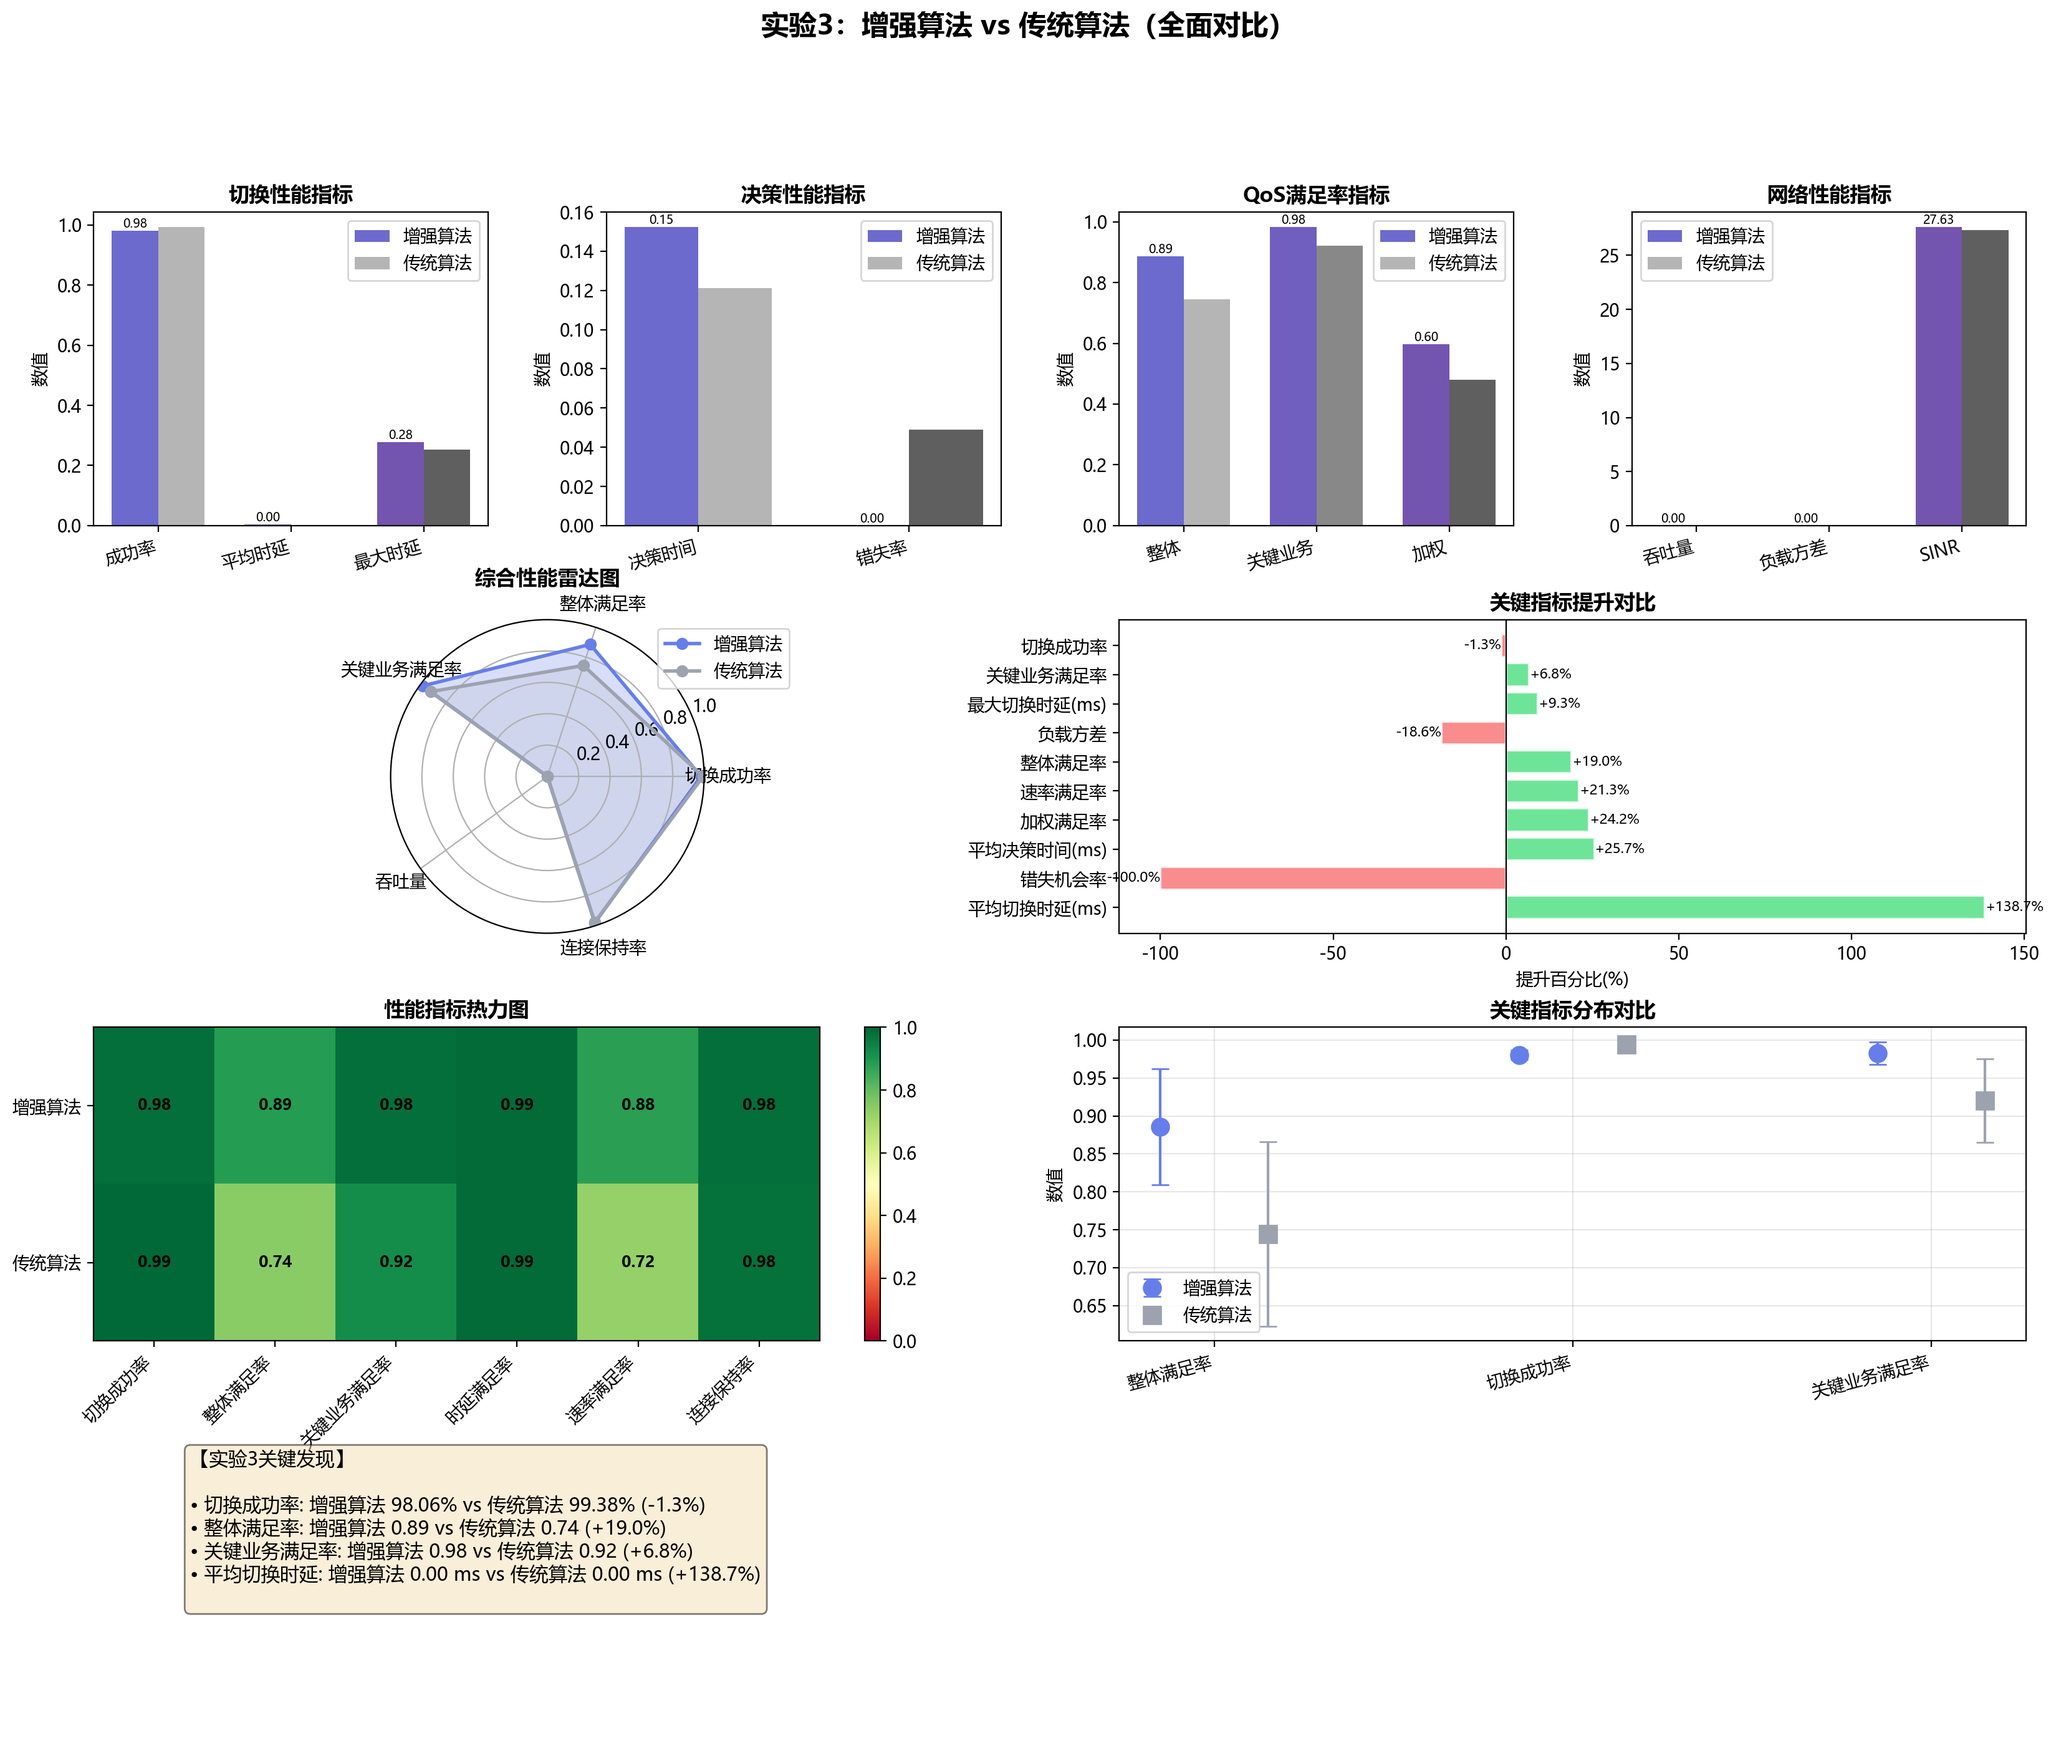
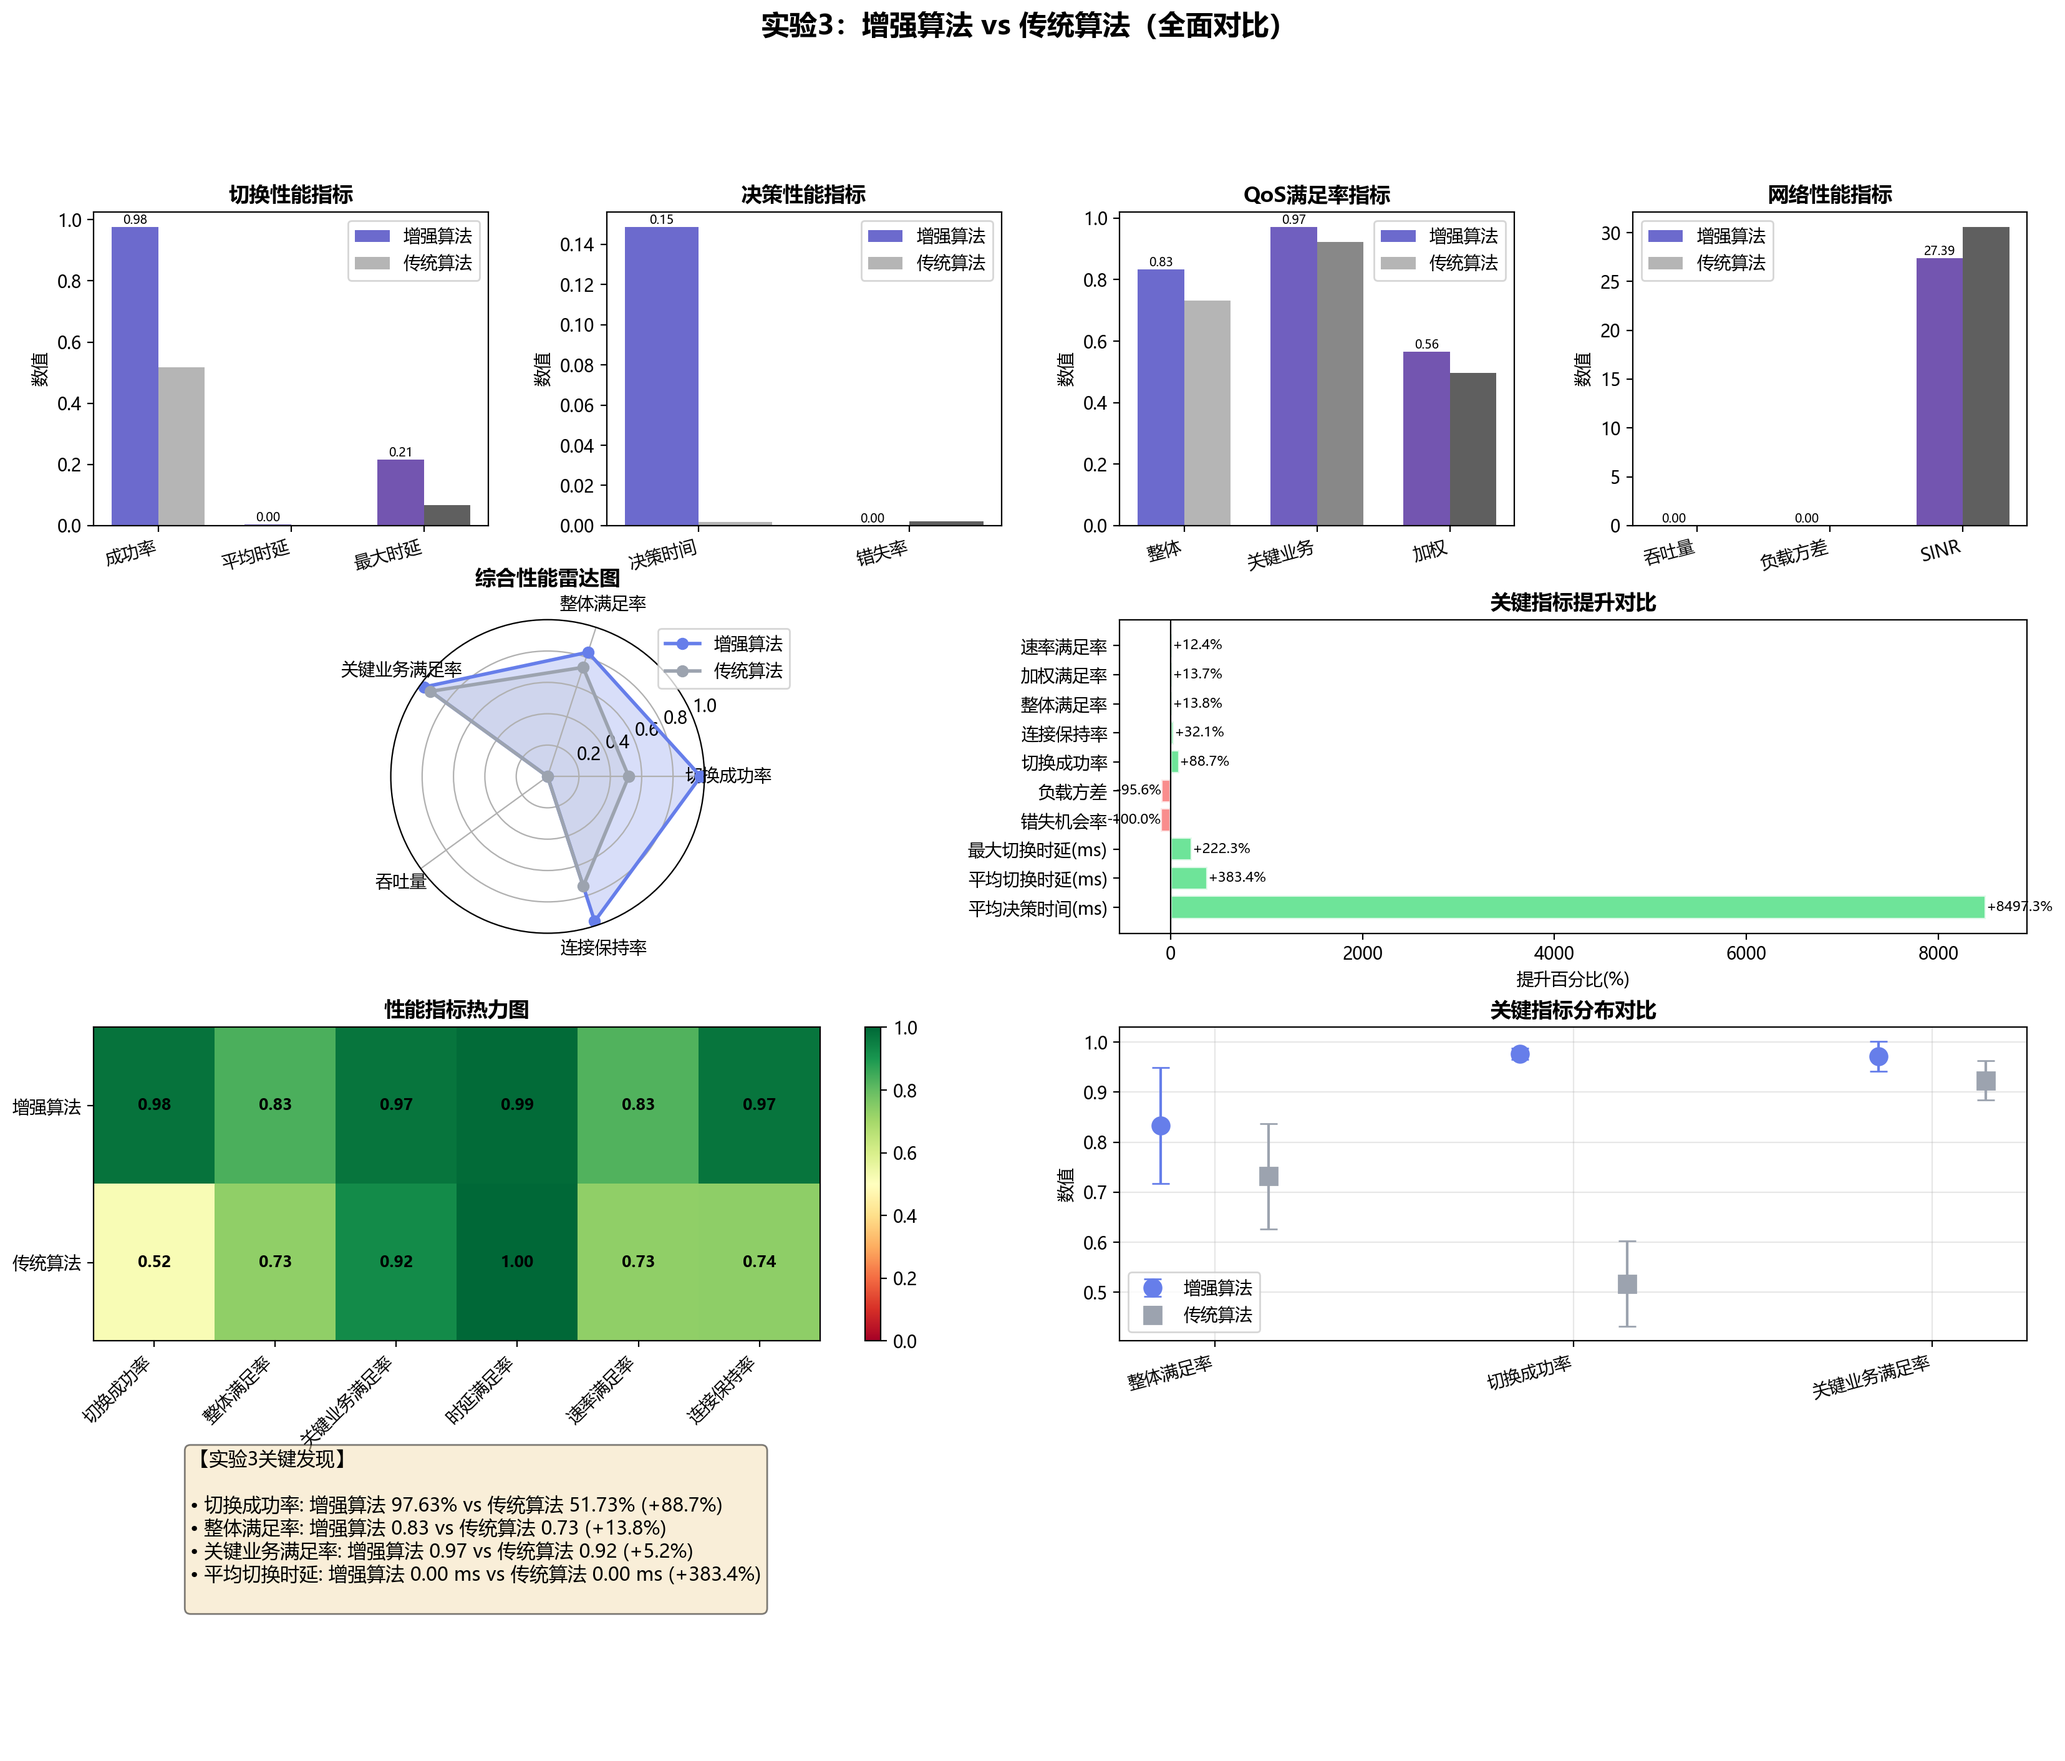
基线采用3GPP标准，核心指标基本达标

diff --git a/uav_system/algorithms.py b/uav_system/algorithms.py
@@ -5,88 +5,96 @@ from .business import BusinessType
 from .environment import NetworkEnvironmentWithRecognition
 
 class IntegratedHandoverAlgorithm:
+    """
+    传统切换算法（3GPP LTE/5G 标准基线）
+    
+    核心特征（与真实3GPP协议一致）：
+    - A3事件触发：仅当邻区SINR比服务小区高Hys+Ofn时才触发切换
+    - 纯SINR目标选择：选择SINR最高的基站，不考虑负载、业务类型
+    - 单次分配尝试：不降级、不抢占，资源不足即切换失败
+    - 无回滚机制：先断后连(make-before-break不可用)，失败则断连
+    - 无负载均衡：无全局均衡调度
+    """
     def __init__(self, env: NetworkEnvironmentWithRecognition):
         self.env = env
-        self.w_sinr = 0.4
-        self.w_load = 0.3
-        self.w_rate = 0.3
-        self.handover_threshold = 0.005
-        self.downgrade_ratios = [1.0, 0.8, 0.6, 0.4, 0.2]
+        # 3GPP A3事件参数
+        self.hysteresis = 2.0      # Hys: 迟滞参数(dB)，防止乒乓切换
+        self.offset = 0.0           # Ofn: 频率偏移(dB)
+        # 紧急切换阈值（SINR极低时强制切换）
+        self.emergency_sinr_threshold = -5
+        self.emergency_satisfaction_threshold = 0.7
+        # 统计指标
         self.handover_attempts = 0
         self.handover_successes = 0
         self.decision_calls = 0
         self.missed_opportunity = 0
-        self.emergency_sinr_threshold = -5
-        self.emergency_satisfaction_threshold = 0.7
-        self.sat_control = []
-        self.sat_video = []
-        self.sat_env = []
         self.switching_latency_history = []
         self.decision_time_history = []
         self.failure_reasons = defaultdict(int)
         self.reconnect_attempts = 0
         self.reconnect_successes = 0
 
-    def calculate_utility(self, uav, bs_id: int, downgrade_ratio: float = 1.0) -> float:
-        sinr = self.env.sinr_matrix[uav.uav_id, bs_id]
-        sinr_norm = np.clip((sinr + 10) / 40, 0, 1)
-        bs = self.env.base_stations[bs_id]
-        load_ratio = bs.load_ratio
-        required = uav.required_rate * downgrade_ratio
-        available = bs.available_capacity
-        rate_match = min(available / required, 1.0) if required > 0 else 0
-        utility = (self.w_sinr * sinr_norm +
-                   self.w_load * (1 - load_ratio) +
-                   self.w_rate * rate_match)
-        return utility
-
     def make_decision(self, uav_id: int) -> Optional[Tuple[int, float]]:
+        """基于纯SINR的切换决策（3GPP A3事件）"""
         from time import time
         t_start = time()
         self.decision_calls += 1
         uav = self.env.uavs[uav_id]
         current_bs_id = uav.connected_bs_id
+
+        # 紧急切换判定（SINR极低或满意度严重不足时）
         emergency = False
         if current_bs_id is not None:
             current_sinr = self.env.sinr_matrix[uav_id, current_bs_id]
             if current_sinr < self.emergency_sinr_threshold or uav.current_satisfaction < self.emergency_satisfaction_threshold:
                 emergency = True
+
         if current_bs_id is None:
+            # 未连接：选择SINR最高的基站，尝试以完整速率接入
             best_bs = None
-            best_utility = -1
-            best_ratio = 1.0
+            best_sinr = -999
             for bs_id in self.env.base_stations.keys():
-                for ratio in self.downgrade_ratios:
-                    utility = self.calculate_utility(uav, bs_id, ratio)
-                    if utility > best_utility:
-                        best_utility = utility
-                        best_bs = bs_id
-                        best_ratio = ratio
+                sinr = self.env.sinr_matrix[uav.uav_id, bs_id]
+                if sinr > best_sinr:
+                    best_sinr = sinr
+                    best_bs = bs_id
             t_end = time()
             self.decision_time_history.append((t_end - t_start) * 1000)
-            return (best_bs, best_ratio) if best_bs is not None else None
-        current_utility = self.calculate_utility(uav, current_bs_id, 1.0)
-        best_bs = current_bs_id
-        best_utility = current_utility
-        best_ratio = 1.0
+            return (best_bs, 1.0) if best_bs is not None else None
+
+        # 已连接：A3事件判定 — 邻区SINR > 服务小区SINR + Hys + Offset
+        current_sinr = self.env.sinr_matrix[uav_id, current_bs_id]
+        a3_threshold = current_sinr + self.hysteresis + self.offset
+        best_bs = None
+        best_sinr = -999
         for bs_id in self.env.base_stations.keys():
             if bs_id == current_bs_id:
                 continue
-            for ratio in self.downgrade_ratios:
-                utility = self.calculate_utility(uav, bs_id, ratio)
-                if utility > best_utility + self.handover_threshold:
-                    best_utility = utility
-                    best_bs = bs_id
-                    best_ratio = ratio
-        if emergency and best_bs == current_bs_id:
-            self.missed_opportunity += 1
+            sinr = self.env.sinr_matrix[uav.uav_id, bs_id]
+            if sinr > best_sinr:
+                best_sinr = sinr
+                best_bs = bs_id
+
         t_end = time()
         self.decision_time_history.append((t_end - t_start) * 1000)
-        if best_bs != current_bs_id:
-            return (best_bs, best_ratio)
+
+        if best_bs is not None:
+            # 紧急模式：降低迟滞，更容易触发切换
+            if emergency:
+                if best_sinr > current_sinr:  # 紧急时无迟滞
+                    return (best_bs, 1.0)
+                self.missed_opportunity += 1
+                return None
+            # 正常A3事件
+            if best_sinr > a3_threshold:
+                return (best_bs, 1.0)
+
+        if emergency:
+            self.missed_opportunity += 1
         return None
 
     def execute_handover(self, uav_id: int, target_bs_id: int, downgrade_ratio: float) -> bool:
+        """执行切换：先断后连，无回滚，无抢占"""
         from time import time
         t_start = time()
         self.handover_attempts += 1
@@ -94,15 +102,17 @@ class IntegratedHandoverAlgorithm:
         target_bs = self.env.base_stations[target_bs_id]
         required_rate = uav.required_rate * downgrade_ratio
 
-        # 区分重连和正常切换
         is_reconnect = (uav.connected_bs_id is None)
         if is_reconnect:
             self.reconnect_attempts += 1
 
+        # 先释放旧基站资源
         if uav.connected_bs_id is not None:
             old_bs = self.env.base_stations[uav.connected_bs_id]
             old_bs.release(uav_id)
             self.env.connection_matrix[uav_id, uav.connected_bs_id] = 0
+
+        # 尝试分配到新基站（仅单次尝试，不降级不抢占）
         if target_bs.allocate(uav_id, required_rate):
             uav.connected_bs_id = target_bs_id
             uav.current_allocated_rate = required_rate
@@ -115,20 +125,10 @@ class IntegratedHandoverAlgorithm:
             self.switching_latency_history.append((t_end - t_start) * 1000)
             return True
         else:
+            # 分配失败：无回滚，无抢占，UAV断连
             self.failure_reasons['allocation_failed'] += 1
-            freed, _ = target_bs.kick_low_priority(uav, self.env.uavs)
-            if freed >= required_rate and target_bs.allocate(uav_id, required_rate):
-                uav.connected_bs_id = target_bs_id
-                uav.current_allocated_rate = required_rate
-                self.env.connection_matrix[uav_id, target_bs_id] = 1
-                uav.handover_count += 1
-                self.handover_successes += 1
-                if is_reconnect:
-                    self.reconnect_successes += 1
-                t_end = time()
-                self.switching_latency_history.append((t_end - t_start) * 1000)
-                return True
-            self.failure_reasons['preemption_failed'] += 1
+            uav.connected_bs_id = None
+            uav.current_allocated_rate = 0.0
             t_end = time()
             self.switching_latency_history.append((t_end - t_start) * 1000)
             return False
@@ -145,7 +145,6 @@ class IntegratedHandoverAlgorithm:
         return handover_count
 
     def get_detailed_stats(self) -> Dict:
-        # 切换成功率：仅计正常切换（排除重连），与增强算法对齐
         normal_attempts = max(self.handover_attempts - self.reconnect_attempts, 1)
         normal_success_rate = (self.handover_successes - self.reconnect_successes) / normal_attempts if normal_attempts > 0 else 0
         reconnect_success_rate = self.reconnect_successes / max(self.reconnect_attempts, 1)
